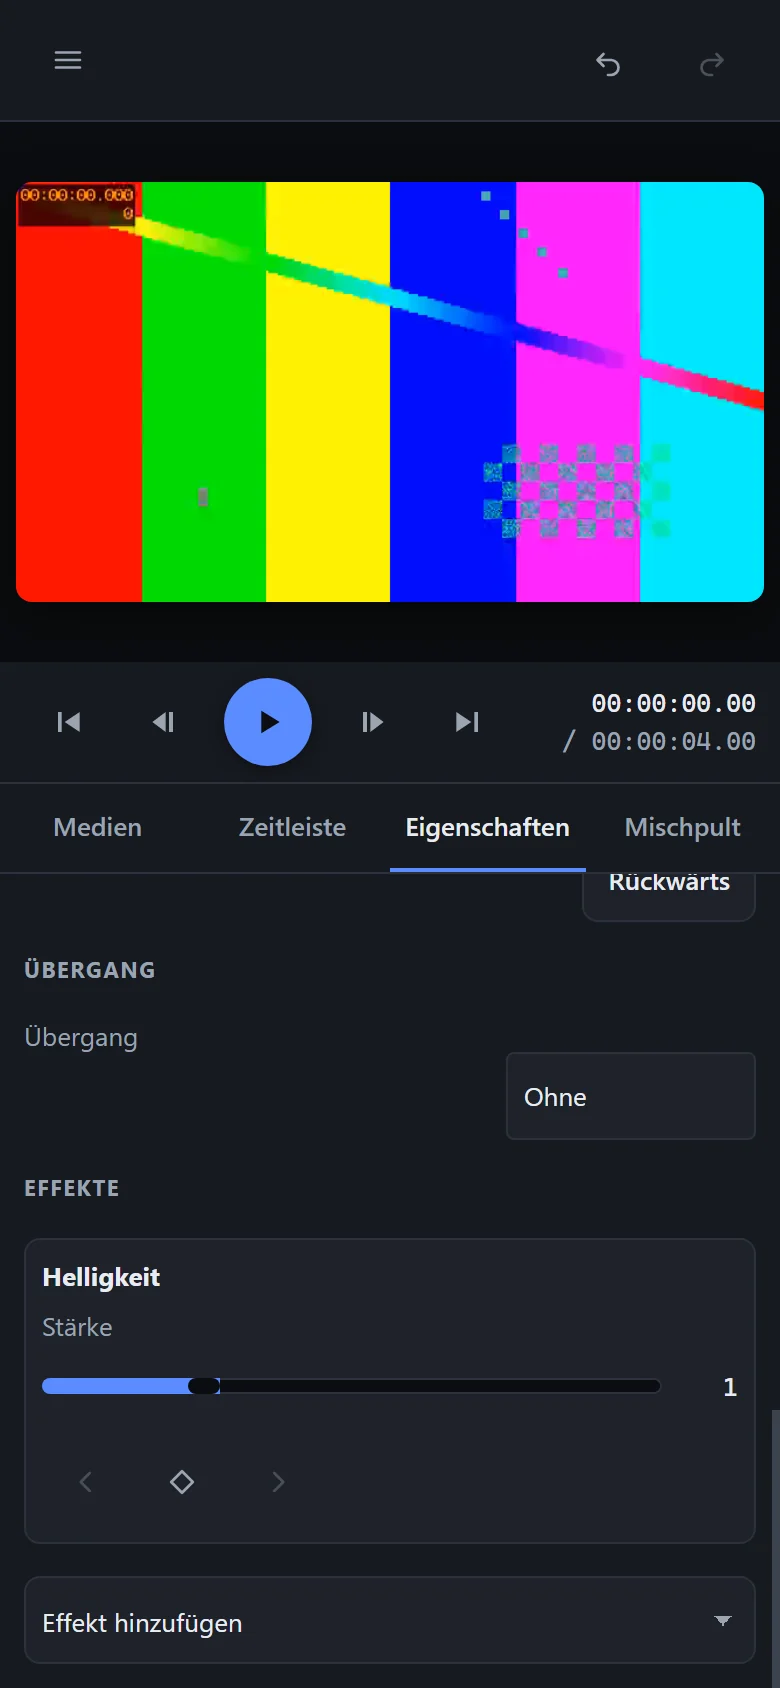
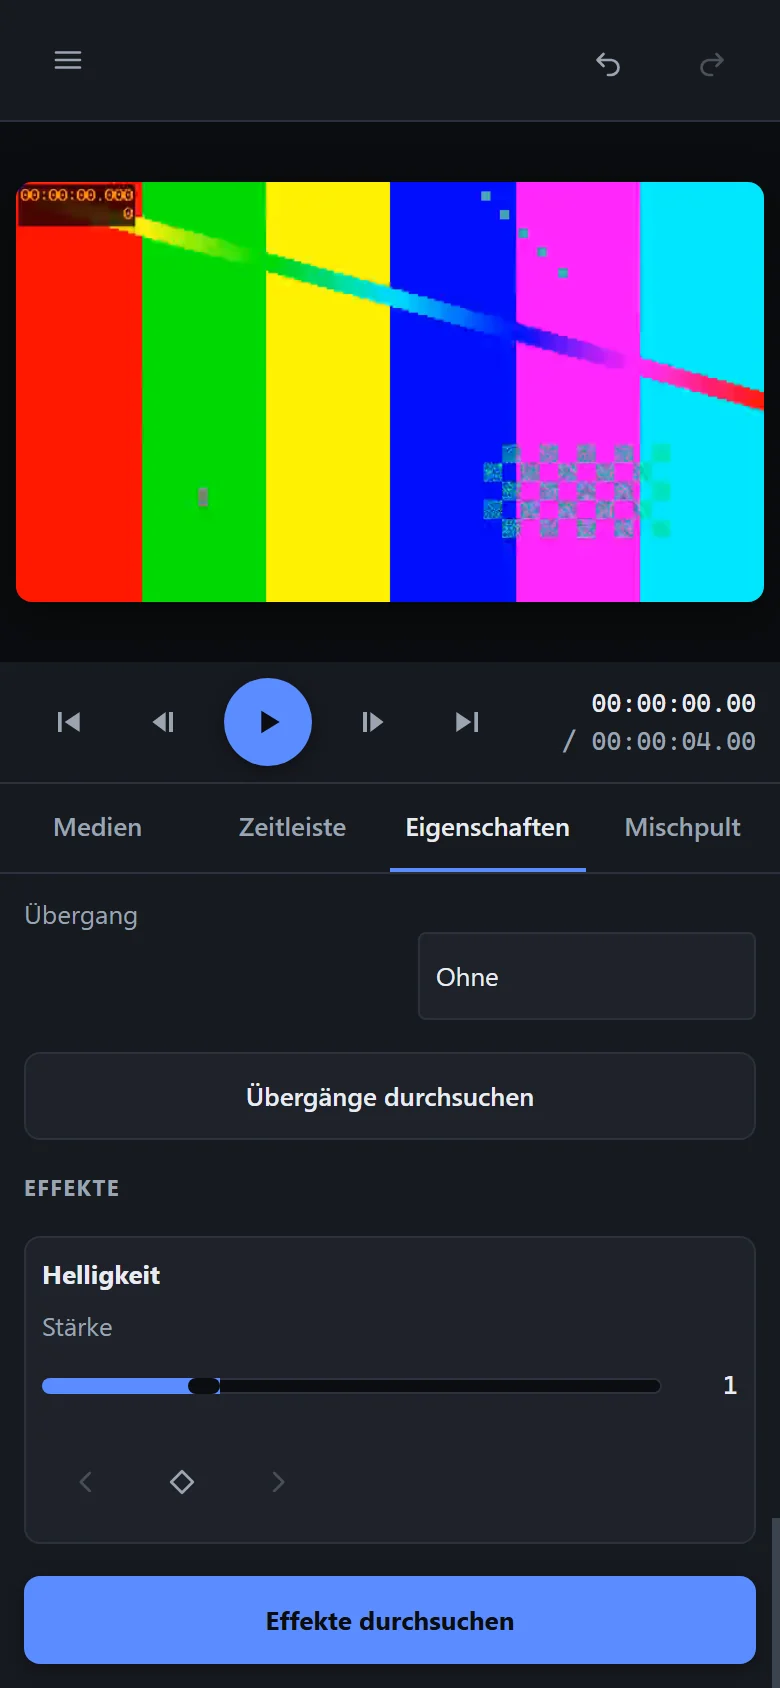
docs: Effekt-Browser und neue Vorlagen zeigen, Schirmbilder erneuert

diff --git a/apps/docs/de/guide/features.md b/apps/docs/de/guide/features.md
@@ -40,6 +40,13 @@ Zug über zweihundert Bewegungen ist **ein** Undo-Schritt.
 
 ## Effekte, Übergänge und Text
 
+![Der Effekt-Browser: Kacheln nach Kategorien, jede durch den Effekt gerendert, den sie anbietet](/editor-effects.webp)
+
+Ausgewählt werden sie in einem Browser nach Kategorien, durchsuchbar in beiden Sprachen, und **jede
+Kachel ist der Shader des Effekts über dem Bild am Playhead** — kein gemaltes Beispiel. Eine Kachel,
+die das Bild nicht verändert, aus dem sie gezeichnet wurde, lässt den Bau scheitern. Genau das
+verhindert, dass ein Effekt mit seinem eigenen Standardwert für sich wirbt.
+
 Helligkeit, Kontrast, Sättigung, Farbtemperatur, Vignette, Weichzeichnen, Schärfen und
 Chroma-Keying. Überblendung, Wischen, Schieben, Kreisblende, Zoom, Weichzeichnen-Blende und Blende
 über eine frei gewählte Farbe. Rechteckige und elliptische Masken mit weicher Kante und

diff --git a/apps/docs/guide/features.md b/apps/docs/guide/features.md
@@ -37,6 +37,13 @@ drag — two hundred pointer moves — is **one** undo step.
 
 ## Effects, transitions and text
 
+![The effect browser: tiles by category, each rendered through the effect it offers](/editor-effects.webp)
+
+They are picked from a browser grouped by category and searchable in both languages, and **every
+tile is the effect's own shader over the frame at the playhead** — not a painted illustration. A
+tile that failed to change the picture it was drawn from fails the build, which is what stops an
+effect from advertising itself with its own default value.
+
 Brightness, contrast, saturation, colour temperature, vignette, blur, sharpen and chroma key.
 Cross dissolve, wipe, slide, iris, zoom, blur dissolve and dip-to-colour. Rectangular and elliptical
 masks with feather and invert; two masks in one chain intersect. A text generator with styling and
